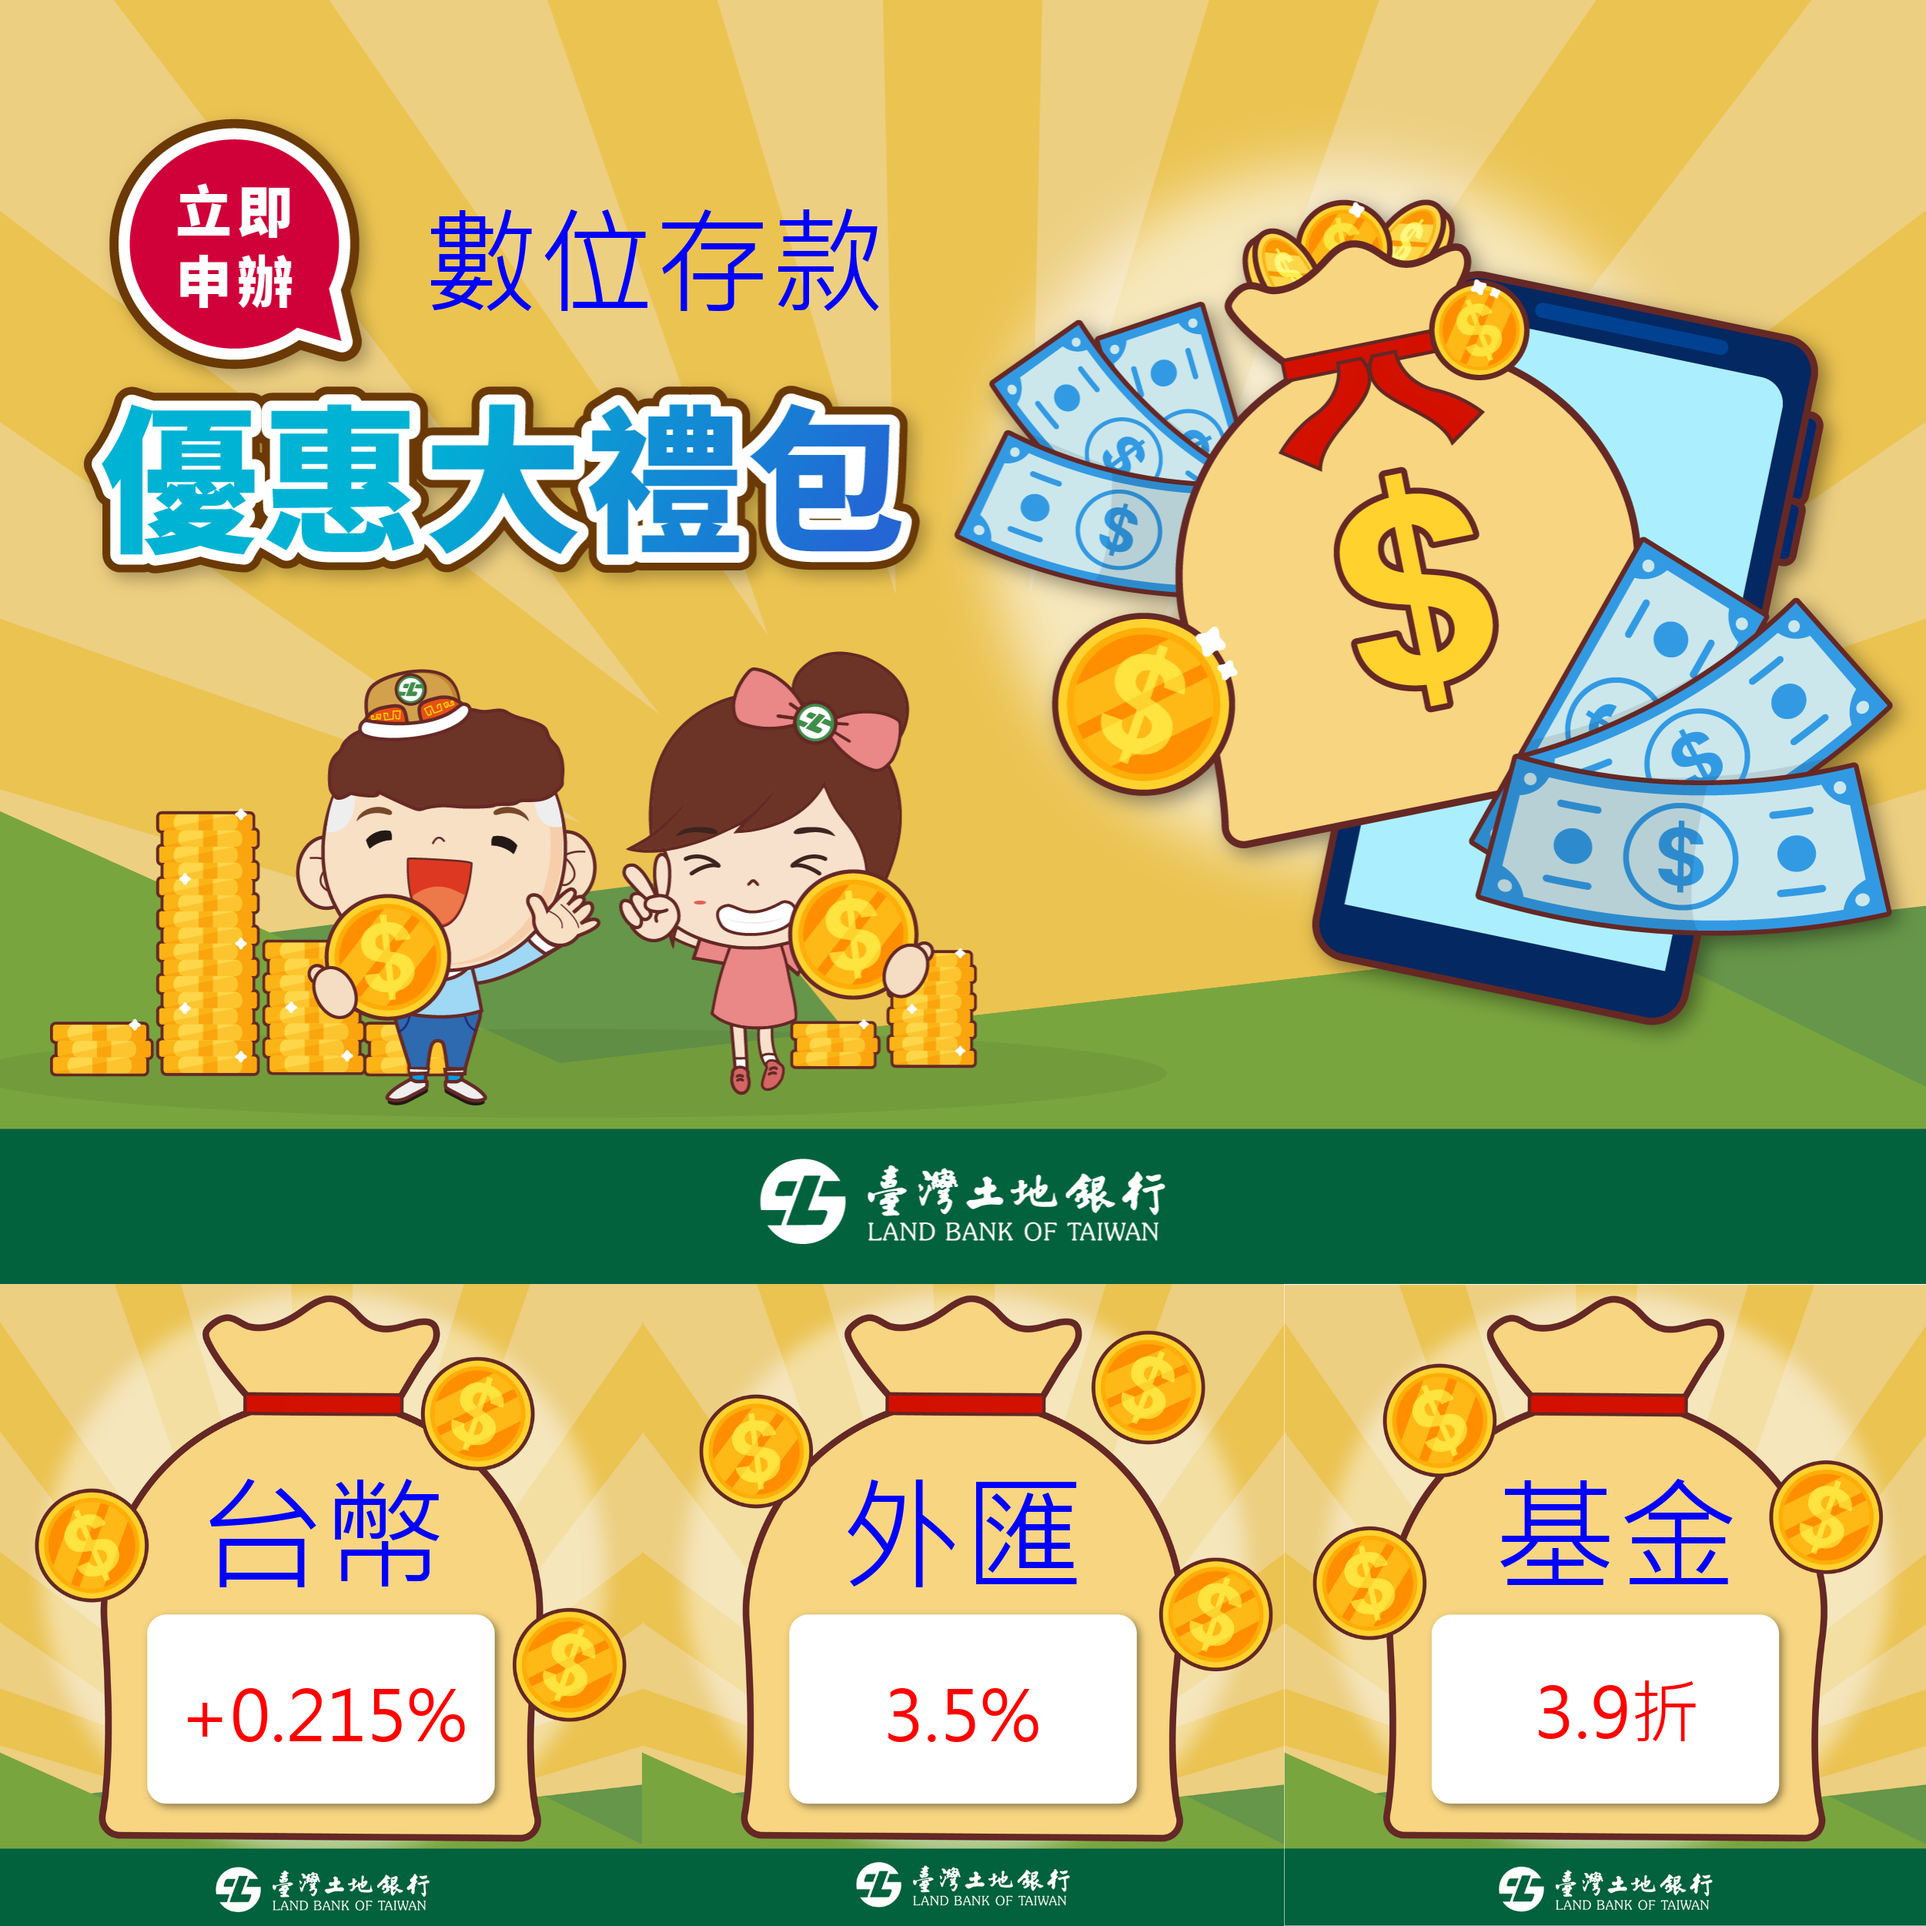
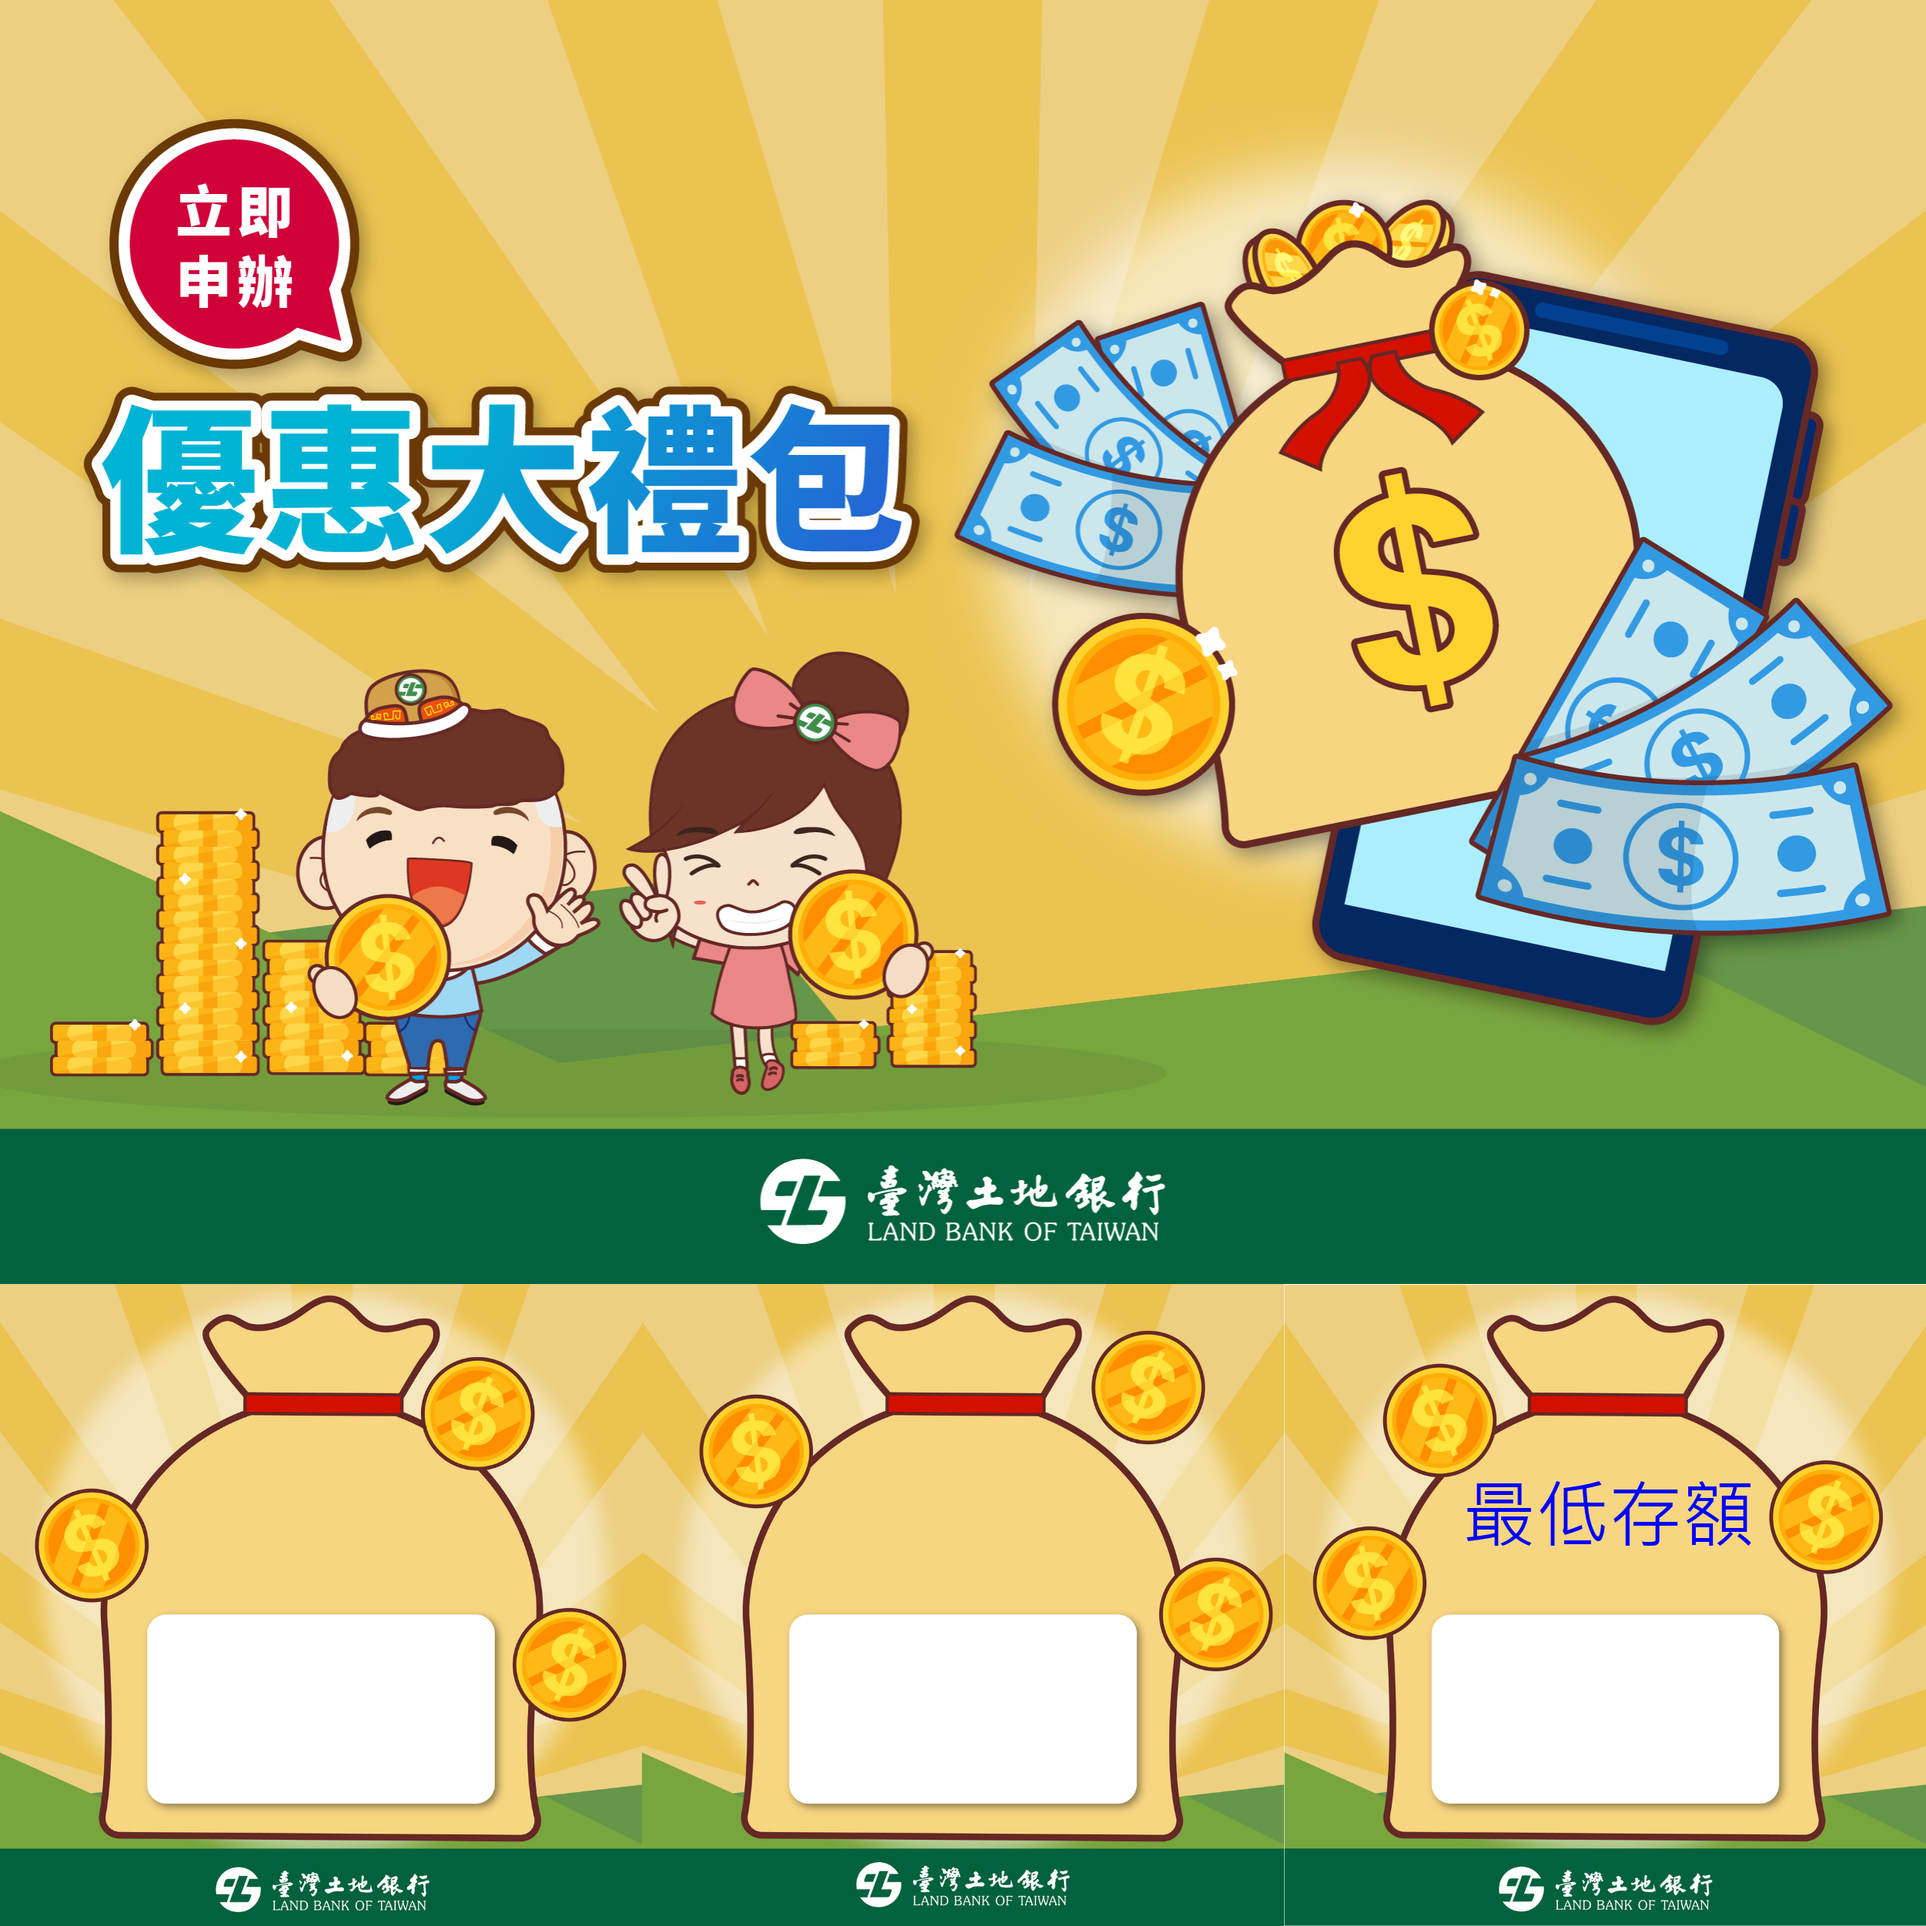
123

diff --git a/addfont2.py b/addfont2.py
@@ -70,11 +70,11 @@ if __name__ == '__main__':
     output_filename = 'output.png'
 
     d4 = {
-        'text': '12345678987654321',
-        'position': (2100, 1950),
+        'text': '最低存額',
+        'position': (1900, 1900),
         'fontname': 'msjh.ttf',  # 請確保這個字體文件存在
-        'fontsize': 100,
-        'box_size': (300, 300),
+        'fontsize': 95,
+        'box_size': (380, 190),
         'alignment': 'center',
         'fill': (0, 0, 255)
     }

diff --git a/test.py b/test.py
@@ -1,0 +1,11 @@
+import random
+import os
+os.system("cls")
+# 定義顏色和數量
+colors = ['白色'] * 6 + ['黑色'] * 6 + ['綠色'] * 5 + ['藍色'] * 5 + ['紅色'] * 5 + ['黃色'] * 5
+
+# 隨機打亂顏色列表
+random.shuffle(colors)
+
+# 打印結果
+print(colors)
